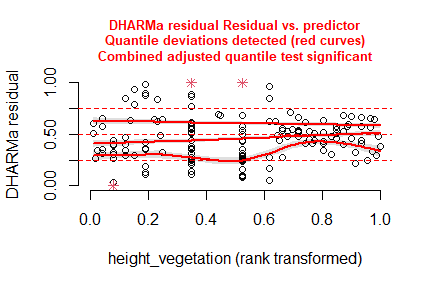
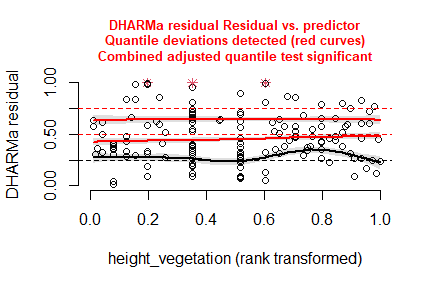
update model checks

diff --git a/R/model_check_seed_mass.md b/R/model_check_seed_mass.md
@@ -74,7 +74,13 @@ sites <- read_csv(
       )
     )
   ) %>%
-  rename(y = CWM_Seed)
+  rename(y = CWM_Seed) %>%
+  filter(
+    is.na(location) | location != "Rollfeld" &
+      !(id %in% c(
+        "X2021tum03", "X2021tum27", "X2021tum43", "X2021tum48", "X2021tum51"
+        )) # Plots with >=10% of Polygonatum odoratum (seed mass = 0.08 g)
+    )
 ```
 
 # Statistics
@@ -88,26 +94,26 @@ Rmisc::CI(sites$y, ci = .95)
 ```
 
     ##       upper        mean       lower 
-    ## 0.004030428 0.003522991 0.003015553
+    ## 0.003160867 0.002994722 0.002828577
 
 ``` r
 median(sites$y)
 ```
 
-    ## [1] 0.003133503
+    ## [1] 0.00310387
 
 ``` r
 sd(sites$y)
 ```
 
-    ## [1] 0.003229254
+    ## [1] 0.001040192
 
 ``` r
 quantile(sites$y, probs = c(0.05, 0.95), na.rm = TRUE)
 ```
 
     ##          5%         95% 
-    ## 0.001468017 0.005170256
+    ## 0.001465411 0.004540762
 
 ### Graphs of raw data (Step 2, 6, 7)
 
@@ -118,7 +124,7 @@ quantile(sites$y, probs = c(0.05, 0.95), na.rm = TRUE)
     ## # A tibble: 4 × 2
     ##   treatment      n
     ##   <fct>      <int>
-    ## 1 control       68
+    ## 1 control       63
     ## 2 cut_summer    30
     ## 3 cut_autumn    30
     ## 4 grazing       30
@@ -156,27 +162,27 @@ m_2 <- m2
 m_1
 ## 
 ## Call:
-## lm(formula = log(y) ~ treatment, data = sites)
+## lm(formula = y ~ treatment, data = sites)
 ## 
 ## Coefficients:
 ##         (Intercept)  treatmentcut_summer     treatmentgrazing  
-##            -5.74086              0.08662             -0.59053  
+##           0.0029747            0.0005489           -0.0011408  
 ## treatmentcut_autumn  
-##             0.12464
+##           0.0006940
 m_2
 ## 
 ## Call:
-## lm(formula = log(y) ~ treatment * cover_vegetation, data = sites)
+## lm(formula = y ~ treatment * cover_vegetation, data = sites)
 ## 
 ## Coefficients:
 ##                          (Intercept)                   treatmentcut_summer  
-##                            -6.250920                              0.608250  
+##                            2.111e-03                             1.477e-03  
 ##                     treatmentgrazing                   treatmentcut_autumn  
-##                            -0.355201                              0.915804  
+##                           -8.064e-04                             2.560e-03  
 ##                     cover_vegetation  treatmentcut_summer:cover_vegetation  
-##                             0.007395                             -0.007585  
+##                            1.253e-05                            -1.360e-05  
 ##    treatmentgrazing:cover_vegetation  treatmentcut_autumn:cover_vegetation  
-##                             0.002843                             -0.011612
+##                            7.181e-06                            -2.757e-05
 ```
 
 ## Model check
@@ -256,10 +262,10 @@ car::vif(m_2)
     ## there are higher-order terms (interactions) in this model
     ## consider setting type = 'predictor'; see ?vif
 
-    ##                                  GVIF Df GVIF^(1/(2*Df))
-    ## treatment                  13283.7591  3        4.866539
-    ## cover_vegetation              11.7061  1        3.421418
-    ## treatment:cover_vegetation  8085.4448  3        4.480062
+    ##                                   GVIF Df GVIF^(1/(2*Df))
+    ## treatment                  13151.56263  3        4.858433
+    ## cover_vegetation              12.03565  1        3.469243
+    ## treatment:cover_vegetation  8030.86572  3        4.475007
 
 ## Model comparison
 
@@ -268,10 +274,10 @@ car::vif(m_2)
 ``` r
 MuMIn::r.squaredGLMM(m_1)
 ##            R2m       R2c
-## [1,] 0.2672342 0.2672342
+## [1,] 0.3751448 0.3751448
 MuMIn::r.squaredGLMM(m_2)
 ##            R2m       R2c
-## [1,] 0.2789503 0.2789503
+## [1,] 0.3869826 0.3869826
 ```
 
 ### AICc
@@ -282,9 +288,9 @@ p. 66 ISBN: 978-0-387-95364-9
 ``` r
 MuMIn::AICc(m_1, m_2) %>%
   arrange(AICc)
-##     df     AICc
-## m_1  5 184.2076
-## m_2  9 189.2593
+##     df      AICc
+## m_1  5 -1731.212
+## m_2  9 -1726.969
 ```
 
 ## Predicted values
@@ -297,24 +303,24 @@ summary(m_1)
 
     ## 
     ## Call:
-    ## lm(formula = log(y) ~ treatment, data = sites)
+    ## lm(formula = y ~ treatment, data = sites)
     ## 
     ## Residuals:
-    ##      Min       1Q   Median       3Q      Max 
-    ## -1.26494 -0.20112 -0.03209  0.07505  2.03882 
+    ##        Min         1Q     Median         3Q        Max 
+    ## -0.0020681 -0.0004008 -0.0001258  0.0002503  0.0042158 
     ## 
     ## Coefficients:
-    ##                     Estimate Std. Error  t value Pr(>|t|)    
-    ## (Intercept)         -5.74086    0.05152 -111.435  < 2e-16 ***
-    ## treatmentcut_summer  0.08662    0.09311    0.930    0.354    
-    ## treatmentgrazing    -0.59053    0.09311   -6.342  2.4e-09 ***
-    ## treatmentcut_autumn  0.12464    0.09311    1.339    0.183    
+    ##                       Estimate Std. Error t value Pr(>|t|)    
+    ## (Intercept)          0.0029747  0.0001042  28.538  < 2e-16 ***
+    ## treatmentcut_summer  0.0005489  0.0001835   2.991 0.003255 ** 
+    ## treatmentgrazing    -0.0011408  0.0001835  -6.216 4.87e-09 ***
+    ## treatmentcut_autumn  0.0006940  0.0001835   3.781 0.000225 ***
     ## ---
     ## Signif. codes:  0 '***' 0.001 '**' 0.01 '*' 0.05 '.' 0.1 ' ' 1
     ## 
-    ## Residual standard error: 0.4248 on 154 degrees of freedom
-    ## Multiple R-squared:  0.271,  Adjusted R-squared:  0.2568 
-    ## F-statistic: 19.09 on 3 and 154 DF,  p-value: 1.414e-10
+    ## Residual standard error: 0.0008274 on 149 degrees of freedom
+    ## Multiple R-squared:  0.3798, Adjusted R-squared:  0.3673 
+    ## F-statistic: 30.42 on 3 and 149 DF,  p-value: 2.124e-15
 
 ### Forest plot
 
@@ -344,26 +350,24 @@ necessary.
 ```
 
     ## $emmeans
-    ##  treatment  response       SE  df lower.CL upper.CL
-    ##  control     0.00298 0.000235 150  0.00255  0.00349
-    ##  cut_summer  0.00350 0.000275 150  0.00300  0.00409
-    ##  grazing     0.00247 0.000678 150  0.00144  0.00425
-    ##  cut_autumn  0.00376 0.000336 150  0.00315  0.00448
+    ##  treatment   emmean       SE  df lower.CL upper.CL
+    ##  control    0.00285 0.000160 145  0.00253  0.00316
+    ##  cut_summer 0.00353 0.000153 145  0.00322  0.00383
+    ##  grazing    0.00246 0.000526 145  0.00142  0.00350
+    ##  cut_autumn 0.00379 0.000176 145  0.00344  0.00414
     ## 
     ## Confidence level used: 0.95 
-    ## Intervals are back-transformed from the log scale 
     ## 
     ## $contrasts
-    ##  contrast                ratio    SE  df null t.ratio p.value
-    ##  cut_summer / control    1.174 0.131 150    1   1.442  0.4752
-    ##  grazing / control       0.829 0.236 150    1  -0.657  0.9128
-    ##  grazing / cut_summer    0.706 0.201 150    1  -1.221  0.6147
-    ##  cut_autumn / control    1.259 0.150 150    1   1.931  0.2197
-    ##  cut_autumn / cut_summer 1.072 0.128 150    1   0.586  0.9362
-    ##  cut_autumn / grazing    1.518 0.437 150    1   1.449  0.4709
+    ##  contrast                 estimate       SE  df t.ratio p.value
+    ##  cut_summer - control     0.000679 0.000221 145   3.069  0.0135
+    ##  grazing - control       -0.000385 0.000550 145  -0.700  0.8971
+    ##  grazing - cut_summer    -0.001064 0.000548 145  -1.941  0.2155
+    ##  cut_autumn - control     0.000942 0.000238 145   3.963  0.0007
+    ##  cut_autumn - cut_summer  0.000262 0.000233 145   1.125  0.6747
+    ##  cut_autumn - grazing     0.001327 0.000555 145   2.390  0.0835
     ## 
-    ## P value adjustment: tukey method for comparing a family of 4 estimates 
-    ## Tests are performed on the log scale
+    ## P value adjustment: tukey method for comparing a family of 4 estimates
 
 ``` r
 plot(emm, comparison = TRUE)

diff --git a/R/model_check_plant_height.md b/R/model_check_plant_height.md
@@ -293,33 +293,29 @@ MuMIn::AICc(m_1, m_2) %>%
 ### Summary table
 
 ``` r
-summary(m_2)
+summary(m_1)
 ```
 
     ## 
     ## Call:
-    ## lm(formula = y ~ treatment * cover_vegetation, data = sites)
+    ## lm(formula = y ~ treatment, data = sites)
     ## 
     ## Residuals:
     ##       Min        1Q    Median        3Q       Max 
-    ## -0.104179 -0.022881 -0.002104  0.021046  0.195950 
+    ## -0.133468 -0.023562 -0.003175  0.022226  0.211437 
     ## 
     ## Coefficients:
-    ##                                        Estimate Std. Error t value Pr(>|t|)    
-    ## (Intercept)                          -0.0012083  0.0451797  -0.027 0.978700    
-    ## treatmentcut_summer                   0.4778605  0.0584674   8.173 1.16e-13 ***
-    ## treatmentcut_autumn                   0.4305363  0.0623535   6.905 1.33e-10 ***
-    ## treatmentgrazing                      0.2072108  0.0517063   4.007 9.64e-05 ***
-    ## cover_vegetation                      0.0037435  0.0006500   5.759 4.63e-08 ***
-    ## treatmentcut_summer:cover_vegetation -0.0037987  0.0008785  -4.324 2.78e-05 ***
-    ## treatmentcut_autumn:cover_vegetation -0.0030798  0.0009067  -3.397 0.000873 ***
-    ## treatmentgrazing:cover_vegetation    -0.0025664  0.0010965  -2.340 0.020578 *  
+    ##                      Estimate Std. Error t value Pr(>|t|)    
+    ## (Intercept)          0.256985   0.006144  41.829   <2e-16 ***
+    ## treatmentcut_summer  0.216290   0.011104  19.478   <2e-16 ***
+    ## treatmentcut_autumn  0.216591   0.011104  19.506   <2e-16 ***
+    ## treatmentgrazing    -0.019396   0.011104  -1.747   0.0827 .  
     ## ---
     ## Signif. codes:  0 '***' 0.001 '**' 0.01 '*' 0.05 '.' 0.1 ' ' 1
     ## 
-    ## Residual standard error: 0.04609 on 150 degrees of freedom
-    ## Multiple R-squared:  0.858,  Adjusted R-squared:  0.8513 
-    ## F-statistic: 129.4 on 7 and 150 DF,  p-value: < 2.2e-16
+    ## Residual standard error: 0.05066 on 154 degrees of freedom
+    ## Multiple R-squared:  0.8238, Adjusted R-squared:  0.8204 
+    ## F-statistic:   240 on 3 and 154 DF,  p-value: < 2.2e-16
 
 ### Forest plot
 
@@ -342,7 +338,7 @@ necessary.
 
 ``` r
 (emm <- emmeans(
-  m_2,
+  m_1,
   revpairwise ~ treatment,
   type = "response"
   ))
@@ -350,21 +346,21 @@ necessary.
 
     ## $emmeans
     ##  treatment  emmean      SE  df lower.CL upper.CL
-    ##  control     0.220 0.00853 150    0.203    0.237
-    ##  cut_summer  0.473 0.00851 150    0.457    0.490
-    ##  cut_autumn  0.469 0.00970 150    0.449    0.488
-    ##  grazing     0.276 0.02970 150    0.217    0.334
+    ##  control     0.257 0.00614 154    0.245    0.269
+    ##  cut_summer  0.473 0.00925 154    0.455    0.492
+    ##  cut_autumn  0.474 0.00925 154    0.455    0.492
+    ##  grazing     0.238 0.00925 154    0.219    0.256
     ## 
     ## Confidence level used: 0.95 
     ## 
     ## $contrasts
-    ##  contrast                estimate     SE  df t.ratio p.value
-    ##  cut_summer - control     0.25354 0.0120 150  21.041  <.0001
-    ##  cut_autumn - control     0.24867 0.0129 150  19.253  <.0001
-    ##  cut_autumn - cut_summer -0.00487 0.0129 150  -0.378  0.9816
-    ##  grazing - control        0.05566 0.0309 150   1.803  0.2760
-    ##  grazing - cut_summer    -0.19788 0.0309 150  -6.411  <.0001
-    ##  grazing - cut_autumn    -0.19301 0.0312 150  -6.184  <.0001
+    ##  contrast                 estimate     SE  df t.ratio p.value
+    ##  cut_summer - control     0.216290 0.0111 154  19.478  <.0001
+    ##  cut_autumn - control     0.216591 0.0111 154  19.506  <.0001
+    ##  cut_autumn - cut_summer  0.000301 0.0131 154   0.023  1.0000
+    ##  grazing - control       -0.019396 0.0111 154  -1.747  0.3033
+    ##  grazing - cut_summer    -0.235686 0.0131 154 -18.017  <.0001
+    ##  grazing - cut_autumn    -0.235987 0.0131 154 -18.040  <.0001
     ## 
     ## P value adjustment: tukey method for comparing a family of 4 estimates
 
